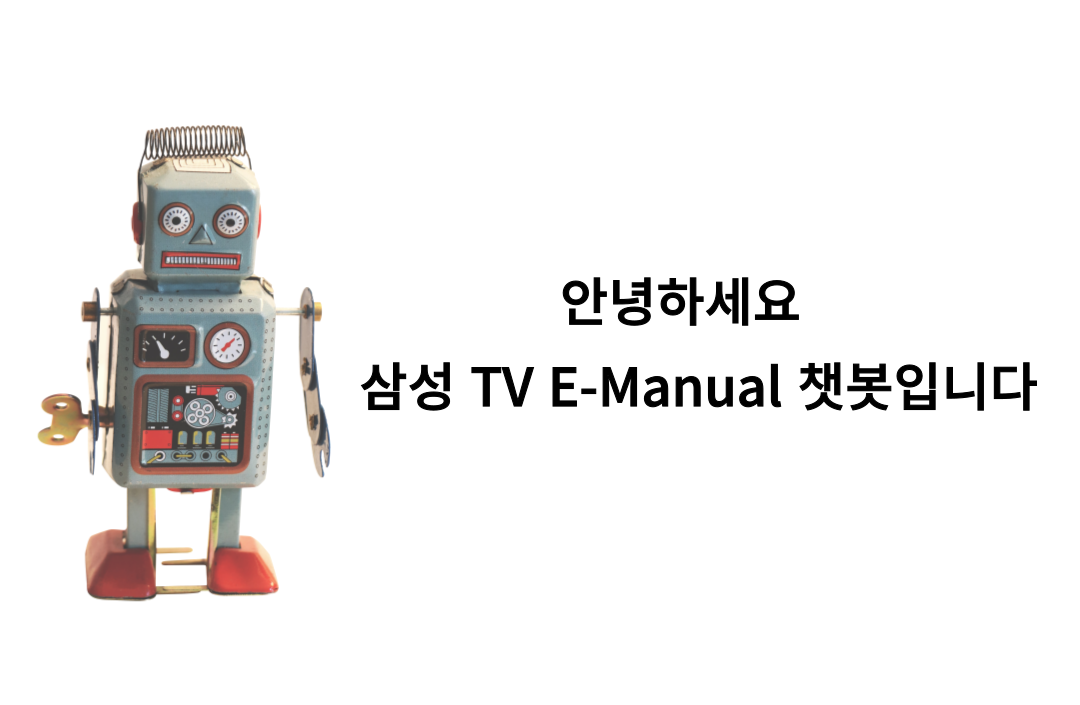
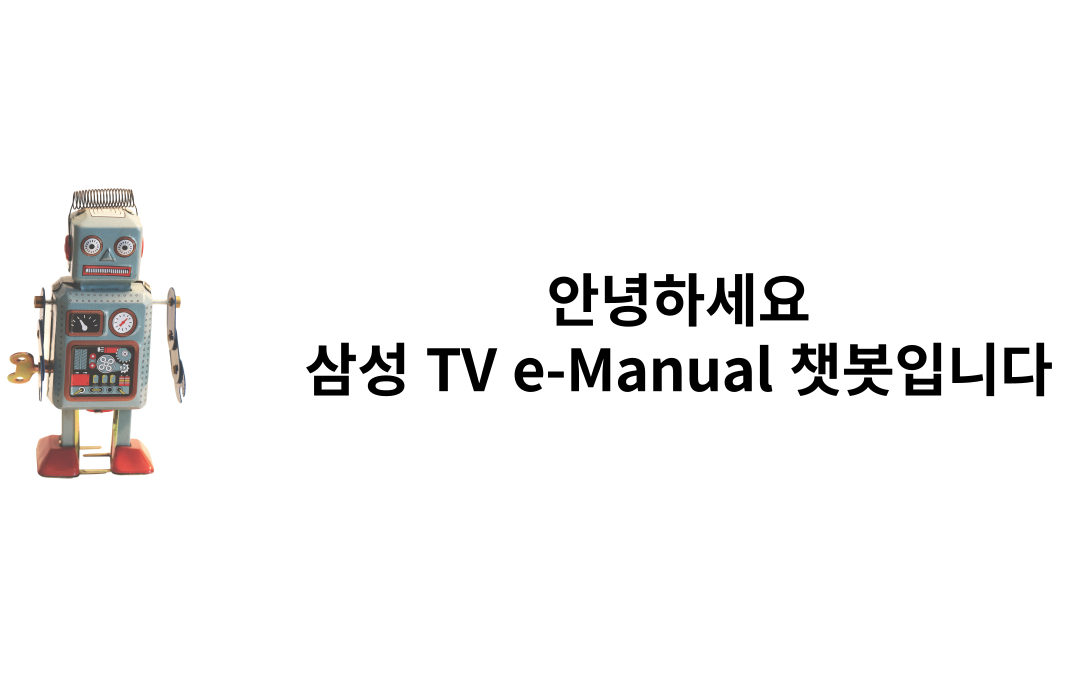
minor changes

Changed region(s): [[0.0, 0.152, 0.9778, 0.8509]]

diff --git a/chatbot-backend/index.js b/chatbot-backend/index.js
@@ -9,6 +9,7 @@ import logoutRouter from './routes/logout.js';
 import llamaindexRouter from './routes/llama_index.js';
 import langchainRouter from './routes/langchain.js';
 import path from 'path';
+import fs from 'fs';
 
 process.env.OPENAI_API_KEY = configuration.apiKey;
 
@@ -26,7 +27,8 @@ app.use(session({
 }));
 
 //https://www.youtube.com/@samsung_svc
-//app.use(express.static(path.join(__dirname, '../E-Manual-Chatbot/dist')));
+app.use(express.static(path.join(__dirname, '../E-Manual-Chatbot/dist')));
+//app.use(express.static(path.join(__dirname, './img')));
 
 app.use('/firebase', firebaseRouter);
 app.use('/login', loginRouter);
@@ -34,10 +36,20 @@ app.use('/logout', logoutRouter);
 app.use('/llama_index', llamaindexRouter);
 app.use('/langchain', langchainRouter);
 
-/*
+app.get('/logo', function(request, response){
+	fs.readFile('./img/logo.png', function(err, data){
+		response.end(data);
+	})
+})
+
+app.get('/logo.png', function(request, response){
+    response.sendFile(path.join(__dirname, "../E-Manual-Chatbot/dist/logo.png"))
+})
+
+
 app.get('*', function(request, response){
     response.sendFile(path.join(__dirname, "../E-Manual-Chatbot/dist/index.html"))
 })
-*/
+
 
 app.listen(port, ()=>{console.log("server started!")});

diff --git a/E-Manual-Chatbot/src/components/Register/RegisterView.jsx b/E-Manual-Chatbot/src/components/Register/RegisterView.jsx
@@ -9,7 +9,7 @@ export default function RegisterView(props){
                     <h2 className="register-name">Sign Up</h2>
                     <div className="register-fill">
                         <div className="register-logo"><UserOutlined style={{ fontSize: '20px'}}/></div>
-                        <input className="register-fill-inside" type="text" name="username" placeholder="User Name" required></input>
+                        <input className="register-fill-inside" type="text" name="username" placeholder="Username" required></input>
                     </div>
                     <div className="register-fill">
                         <div className="register-logo"><MailOutlined style={{ fontSize: '20px'}}/></div>

diff --git a/E-Manual-Chatbot/index.html b/E-Manual-Chatbot/index.html
@@ -2,9 +2,11 @@
 <html lang="en">
   <head>
     <meta charset="UTF-8" />
-    <link rel="icon" type="image/svg+xml" href="/vite.svg" />
     <meta name="viewport" content="width=device-width, initial-scale=1.0" />
-    <title>Vite + React</title>
+    <meta property="og:title" content="Samsung TV e-Manual Chatbot"/>
+    <meta property="og:image" content="https://5e8a-39-114-216-170.ngrok-free.app/logo.png"/> 
+    <meta property="og:description" content="Samsung TV e-Manual Chatbot provides 8 versions of customized chatbot service"/>
+    <title>Samsung TV e-Manual Chatbot</title>
   </head>
   <body>
     <div id="root"></div>

diff --git a/chatbot-backend/routes/login.js b/chatbot-backend/routes/login.js
@@ -6,7 +6,8 @@ var connection = mysql.createConnection({
 	host     : 'localhost',
 	user     : 'root',
 	password : sqlConfig,
-	database : 'emanual'
+	database : 'emanual',
+	connectTimeout: 600000,
 });
 
 connection.connect();
@@ -63,7 +64,7 @@ router.post('/register', function(request, response) {
 				auth: authentication
 			});
 			var mailOptions = {
-				from: '"Chaeyeon Park / E-manual Chatbot" <kidsland09@snu.ac.kr>',
+				from: '"Chaeyeon Park / e-Manual Chatbot" <kidsland09@snu.ac.kr>',
 				to: email,
 				subject: 'Thank you for joining us, Samsung TV E-Manual Chatbot',
 				text: 'Welcome!'

diff --git a/E-Manual-Chatbot/src/components/Navigation/Navigation.jsx b/E-Manual-Chatbot/src/components/Navigation/Navigation.jsx
@@ -7,7 +7,7 @@ export default function Navigation(props) {
     return (
         <Navbar fixed="top" collapseOnSelect expand="lg" className="nav-bar bg-body-tertiary">
         <Container >
-          <Navbar.Brand href="/">Samsung TV E-Manual Chatbot</Navbar.Brand>
+          <Navbar.Brand href="/">Samsung TV e-Manual Chatbot</Navbar.Brand>
           <Navbar.Toggle aria-controls="responsive-navbar-nav" />
           <Navbar.Collapse id="responsive-navbar-nav">
             <Nav className="me-auto">

diff --git a/README.md b/README.md
@@ -63,6 +63,6 @@ GPT-API provided by OPEN AI is used for the project. For more information about 
 
 If there are any updates related to unexpected bugs, I will let you know here. 
 
-## The contributor of 'Samsung TV E-Manaul Chatbot'
+## The contributor of 'Samsung TV E-Manual Chatbot'
 
 Chaeyeon Park, Seoul National University, Department of Mathematical Sciences
